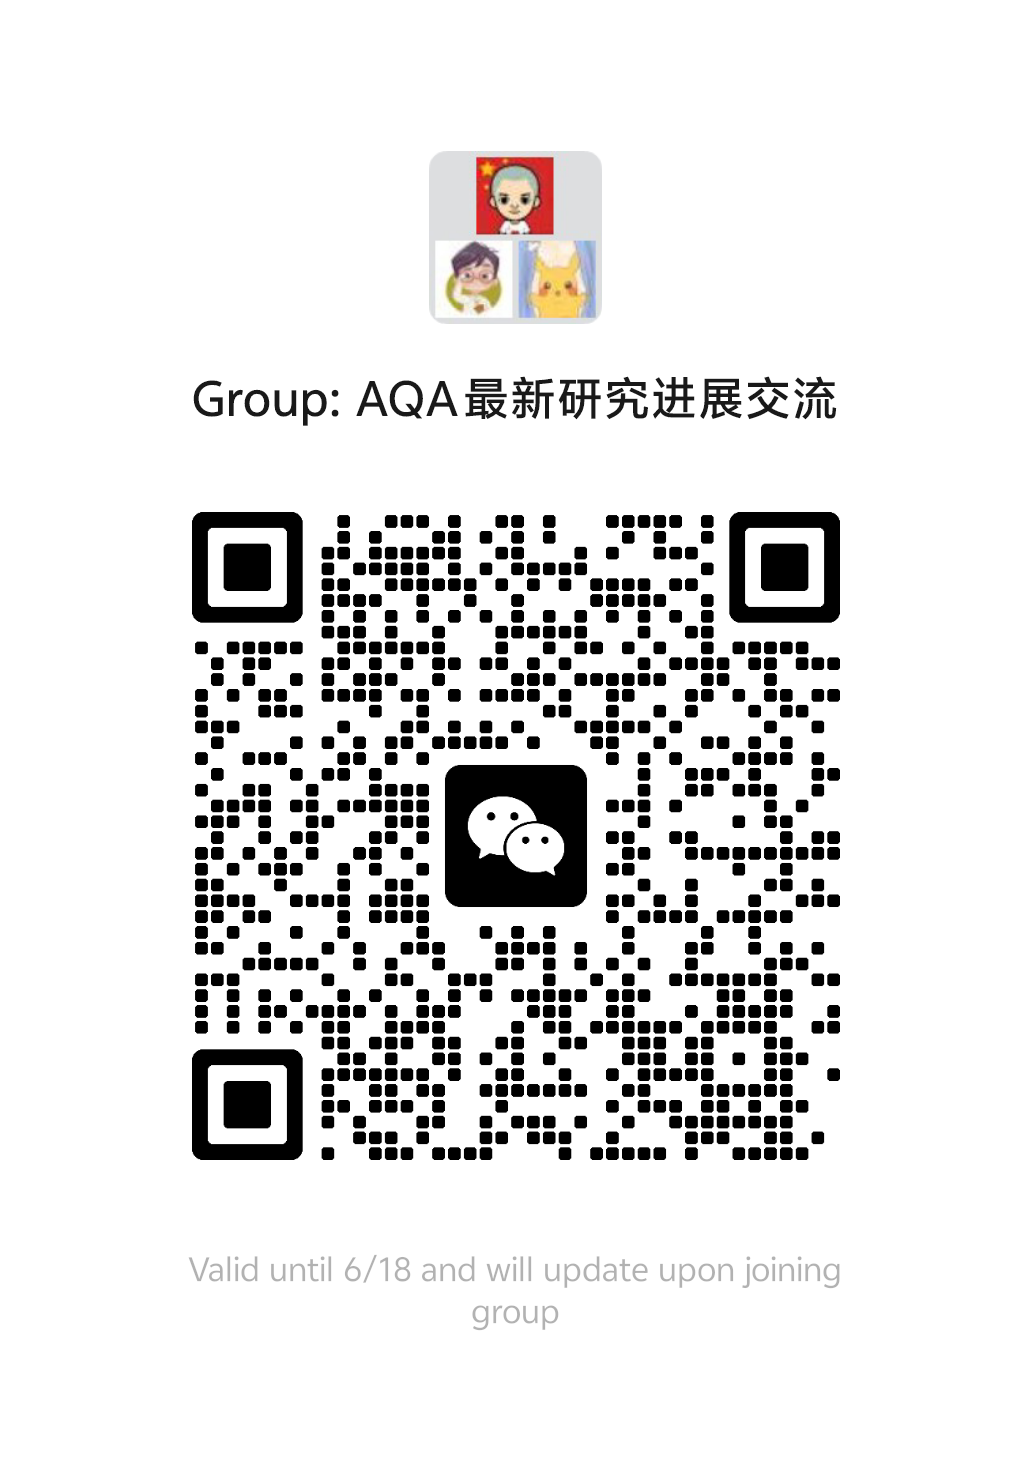
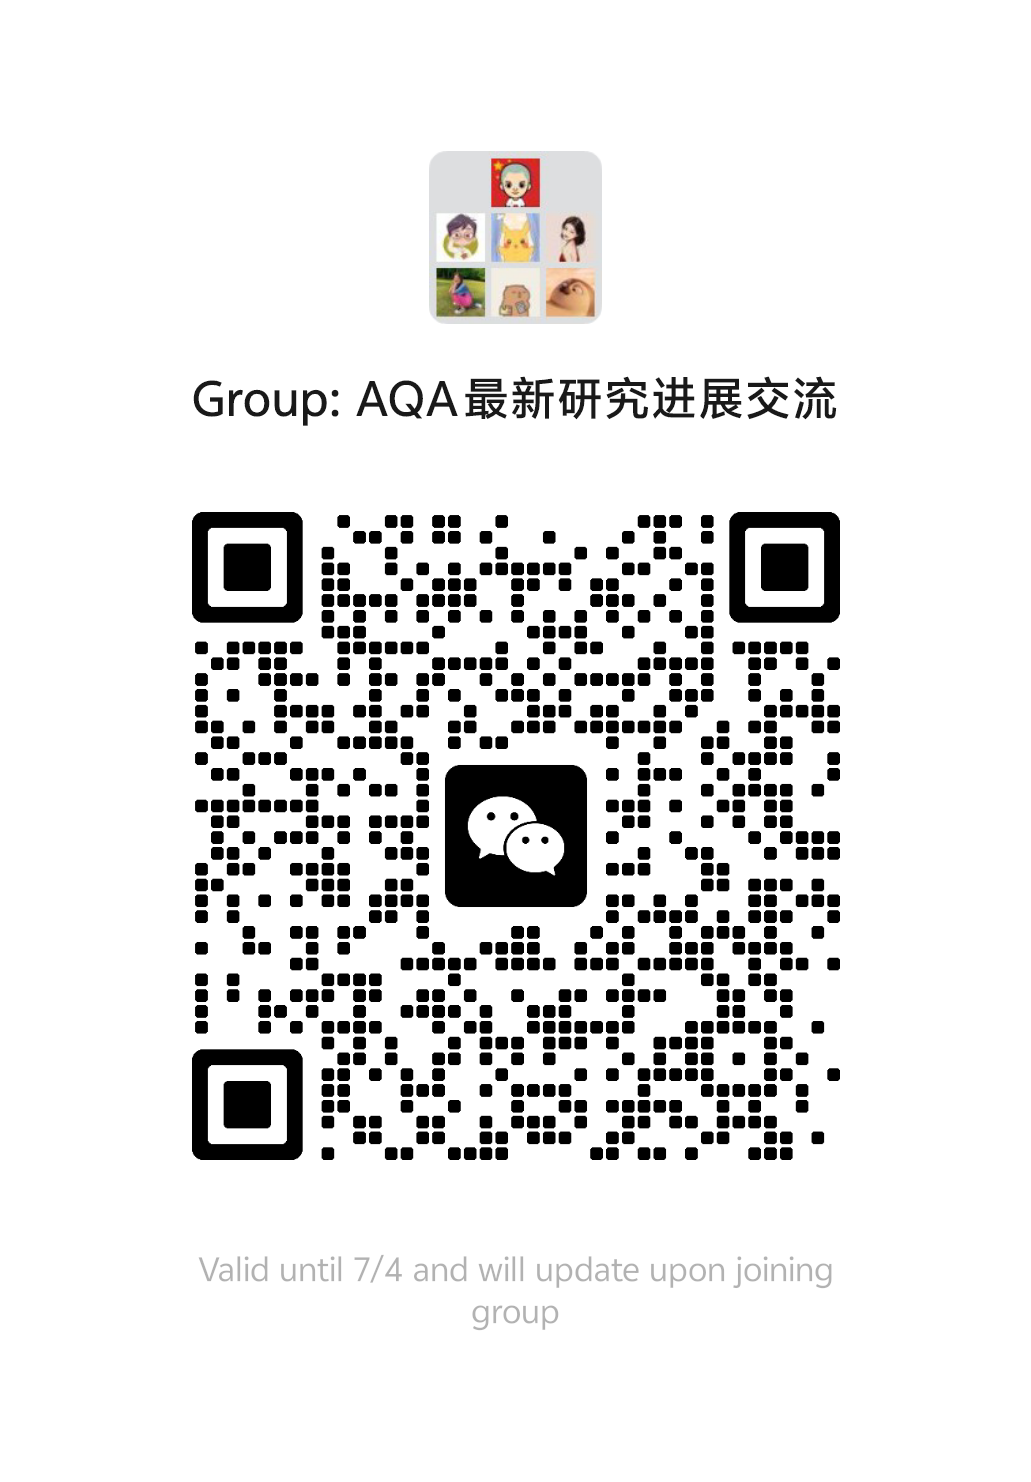
update OR code

diff --git a/README.md b/README.md
@@ -2,7 +2,7 @@
 
 > Pull requests are welcome if you find any interesting paper is missing.
 > - 🔥🔥🔥 denotes the highly recommended papers for the novel insights and new directions.
-> - We have created a [Wechat group](./imgs/aqa-wechat-group.png) for our colleagues to exchange and discuss the latest progress in the field of AQA, contributing to the development of this field.
+> - We have created a [Wechat group](./imgs/aqa-wechat-group.png) for our colleagues to exchange and discuss the latest progress in the field of AQA, contributing to the development of this field. If it expires, please scan my [personal account](./imgs/ZKL.png).
 
 # Papers
 
